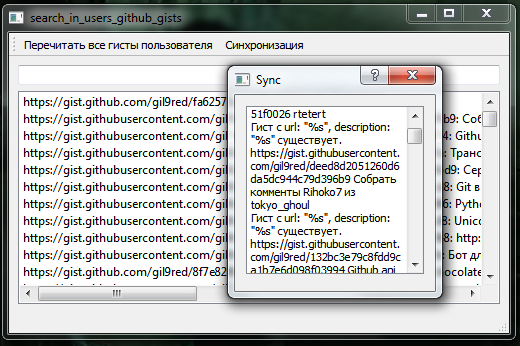
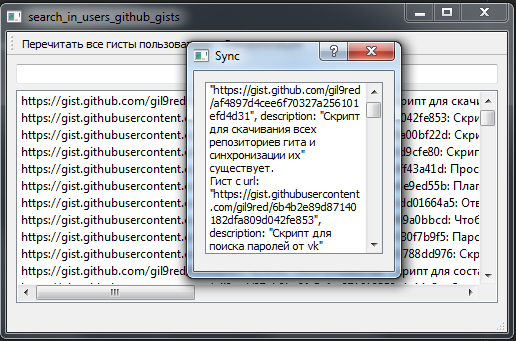
#

diff --git a/main.py b/main.py
@@ -199,10 +199,10 @@ class MainWindow(QMainWindow):
 
         for _ in session.query(Gist).all():
             if not check_url(_.url):
-                log('Гист с url: "%s", description: "%s" не существует.', _.url, _.description)
+                log('Гист с url: "{}", description: "{}" не существует.'.format(_.url, _.description))
                 session.delete(_)
             else:
-                log('Гист с url: "%s", description: "%s" существует.', _.url, _.description)
+                log('Гист с url: "{}", description: "{}" существует.'.format(_.url, _.description))
 
         session.commit()
 
